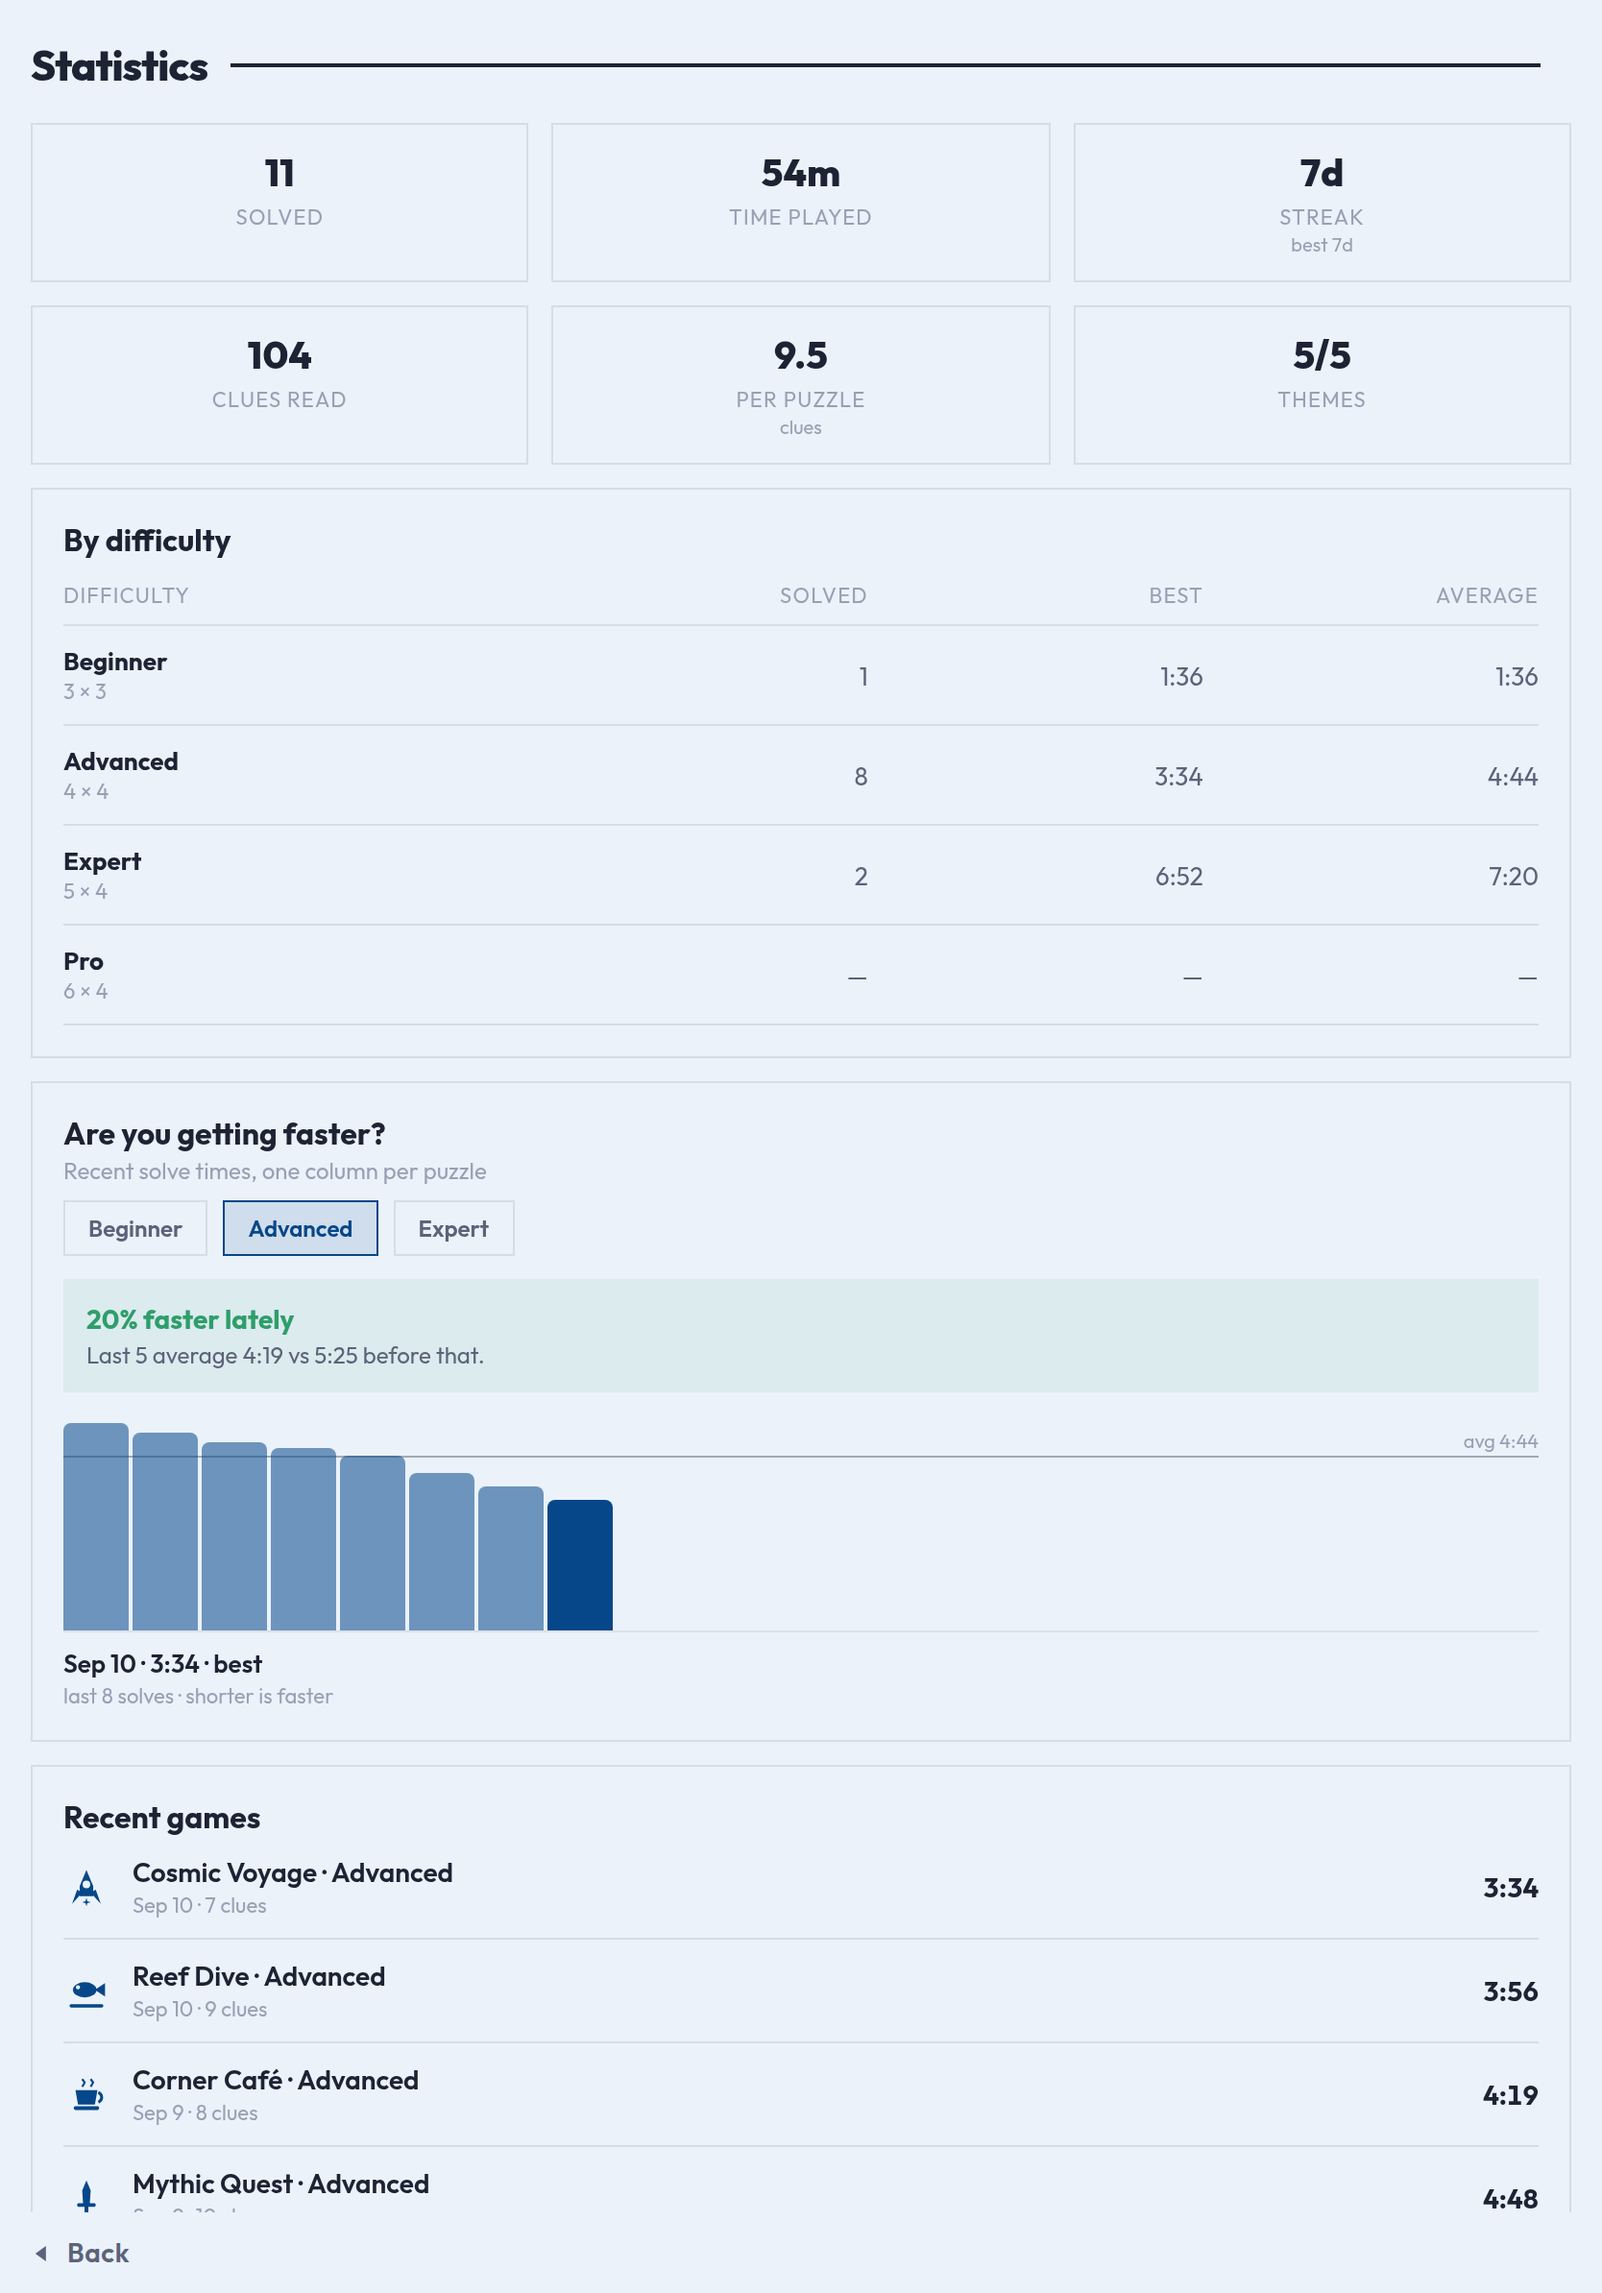
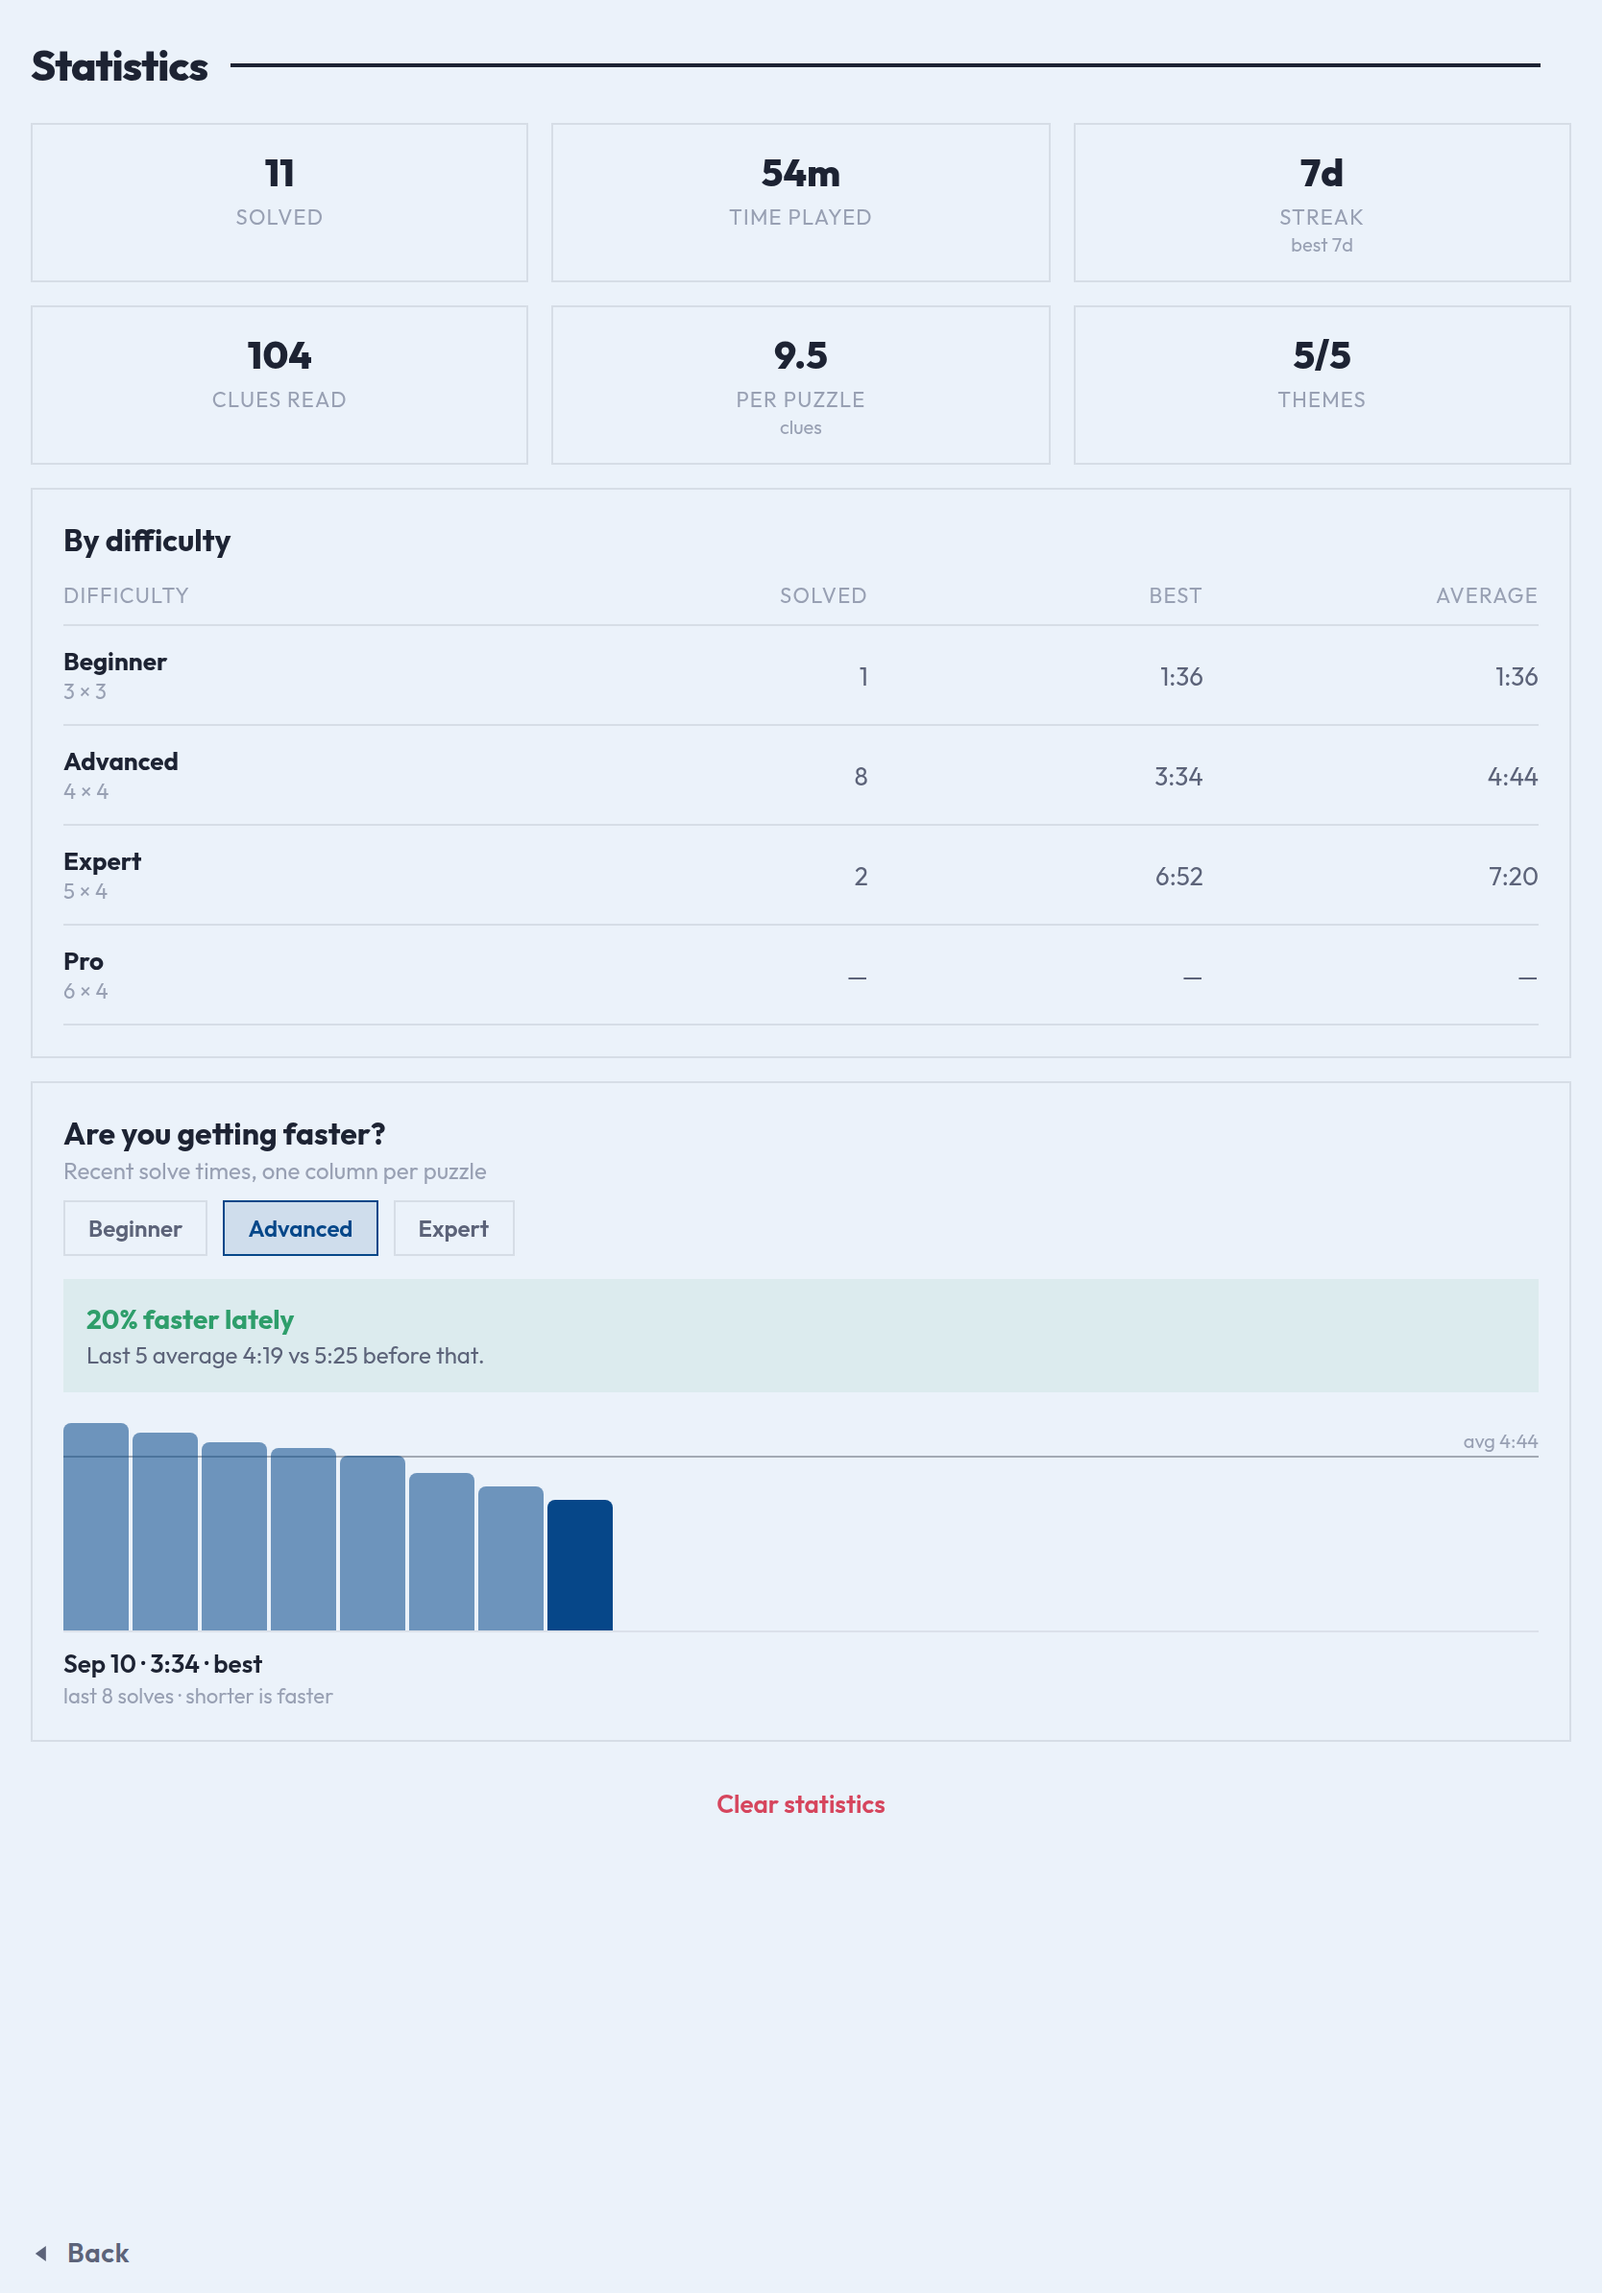
The statistics are what the history adds up to, not the history
The list of recent games went with the rest of what it needed: `recent` on
OverallStats, the twenty games it was sliced from, its two locale lines and
the styles it drew its rows with. What is left is the totals, the table by
difficulty and the trend — the screen saying what the games amount to rather
than listing them back.

The `stats.clues` plural was written for that list and only that list. The
locale test used it as its example of a plural, so it now uses the daily
streak, which is a plural the app still says.

Claude-Session: https://claude.ai/code/session_01RrDehsX5bvPAsFa5dYERaj

diff --git a/src/screens/StatsScreen.tsx b/src/screens/StatsScreen.tsx
@@ -5,7 +5,7 @@ import { useSafeAreaInsets } from 'react-native-safe-area-context';
 import { ConfirmDialog } from '../components/ConfirmDialog';
 import { TrendChart } from '../components/TrendChart';
 import { THEMES } from '../data/themes';
-import { plural, t } from '../i18n';
+import { t } from '../i18n';
 import type { CompletedGame } from '../game/persistence';
 import { formatDuration, formatSpan } from '../game/time';
 import type { OverallStats, SizeStats } from '../stats/summary';
@@ -183,34 +183,6 @@ export function StatsScreen({
                 One more {selected.difficulty} solve and the trend shows up here.
               </Text>
             )}
-          </View>
-        ) : null}
-
-        {history.length > 0 ? (
-          <View style={[styles.card, shadow.card]}>
-            <Text style={styles.cardTitle}>{t('stats.recentGames')}</Text>
-            {stats.recent.map((game) => (
-              <View key={`${game.seed}-${game.finishedAt}`} style={styles.gameRow}>
-                <View style={styles.gameMark}>
-                  <Icon name={game.themeIcon} size={22} color={palette.accent} />
-                </View>
-                <View style={styles.gameText}>
-                  <Text style={styles.gameTitle}>
-                    {game.themeName} · {game.difficulty}
-                  </Text>
-                  <Text style={styles.gameMeta}>
-                    {new Date(game.finishedAt).toLocaleDateString(undefined, {
-                      day: 'numeric',
-                      month: 'short',
-                    })}
-                    {game.cluesUsed === null ? '' : plural('stats.clues', game.cluesUsed)}
-                  </Text>
-                </View>
-                <Text style={[styles.gameTime, game.revealed && styles.gameTimeMuted]}>
-                  {game.revealed ? 'revealed' : formatDuration(game.seconds)}
-                </Text>
-              </View>
-            ))}
           </View>
         ) : null}
 
@@ -463,42 +435,6 @@ const makeStyles = (palette: Palette) =>
       fontSize: 13,
       color: palette.inkSoft,
       marginBottom: space(3),
-    },
-    gameRow: {
-      flexDirection: 'row',
-      alignItems: 'center',
-      gap: space(3),
-      paddingVertical: space(2.5),
-      borderBottomWidth: 1,
-      borderBottomColor: palette.line,
-    },
-    gameMark: {
-      width: 24,
-      alignItems: 'center',
-    },
-    gameText: {
-      flex: 1,
-    },
-    gameTitle: {
-      fontSize: 14,
-      fontWeight: '600',
-      color: palette.ink,
-    },
-    gameMeta: {
-      fontSize: 11,
-      color: palette.inkFaint,
-      marginTop: 1,
-    },
-    gameTime: {
-      fontSize: 14,
-      fontWeight: '700',
-      color: palette.ink,
-      fontVariant: ['tabular-nums'],
-    },
-    gameTimeMuted: {
-      fontSize: 12,
-      fontWeight: '600',
-      color: palette.inkFaint,
     },
     empty: {
       alignItems: 'center',

diff --git a/src/i18n/strings.generated.ts b/src/i18n/strings.generated.ts
@@ -480,15 +480,10 @@ export const STRINGS = {
     fasterLately: '{percent}% faster lately',
     slowerLately: '{percent}% slower lately',
     holdingSteady: 'Holding steady',
-    recentGames: 'Recent games',
     empty: 'No finished puzzles yet',
     emptyBody:
       'Solve one and your time lands here. After a few, you will see whether you are getting quicker.',
     clearStatistics: 'Clear statistics',
-    clues: {
-      one: ' · 1 clue',
-      other: ' · {count} clues',
-    },
     perPuzzleUnit: 'clues',
     trendPending: '{solved} solved · best {best}. A few more and the trend below fills in.',
     trendDetail: 'Last {count} average {recent} vs {earlier} before that.',
@@ -4691,8 +4686,6 @@ export type StringKey =
   | 'stats.byDifficulty'
   | 'stats.chartCaption'
   | 'stats.clearStatistics'
-  | 'stats.clues.one'
-  | 'stats.clues.other'
   | 'stats.cluesRead'
   | 'stats.confirm.body'
   | 'stats.confirm.cancelLabel'
@@ -4706,7 +4699,6 @@ export type StringKey =
   | 'stats.holdingSteady'
   | 'stats.perPuzzle'
   | 'stats.perPuzzleUnit'
-  | 'stats.recentGames'
   | 'stats.slowerLately'
   | 'stats.solved'
   | 'stats.streak'

diff --git a/src/screens/__tests__/screens.test.tsx b/src/screens/__tests__/screens.test.tsx
@@ -1537,6 +1537,11 @@ describe('the statistics', () => {
     expect(screen.getByRole('tab', { name: 'Expert' })).not.toBeSelected();
     expect(screen.queryByRole('tab', { name: 'Beginner' })).toBeNull();
 
+    // The screen is what the history adds up to, not the history itself: the
+    // totals, the table by difficulty and the trend. No list of the games.
+    expect(screen.queryByText('Recent games')).toBeNull();
+    expect(screen.queryByText(game().themeName)).toBeNull();
+
     fireEvent.press(button('Clear statistics'));
     expect(onClearHistory).not.toHaveBeenCalled();
     expect(screen.getByText('Clear statistics?')).toBeOnTheScreen();

diff --git a/src/i18n/__tests__/locale.test.ts b/src/i18n/__tests__/locale.test.ts
@@ -59,12 +59,12 @@ describe('t', () => {
 
 describe('plural', () => {
   it('takes the one form at exactly one', () => {
-    expect(plural('stats.clues', 1)).toBe(' · 1 clue');
+    expect(plural('daily.streak', 1)).toBe('1 day running');
   });
 
   it('takes the other form for none and for many', () => {
-    expect(plural('stats.clues', 0)).toBe(' · 0 clues');
-    expect(plural('stats.clues', 4)).toBe(' · 4 clues');
+    expect(plural('daily.streak', 0)).toBe('0 days running');
+    expect(plural('daily.streak', 4)).toBe('4 days running');
   });
 
   it('offers the count without being asked', () => {

diff --git a/src/stats/summary.ts b/src/stats/summary.ts
@@ -49,8 +49,6 @@ export interface OverallStats {
   currentStreak: number;
   longestStreak: number;
   sizes: SizeStats[];
-  /** Newest first. */
-  recent: CompletedGame[];
 }
 
 const mean = (values: number[]): number | null =>
@@ -152,7 +150,6 @@ export function summarise(
     currentStreak: current,
     longestStreak: longest,
     sizes: sizes.map((size) => statsForSize(games, size)),
-    recent: games.slice(0, 20),
   };
 }
 
